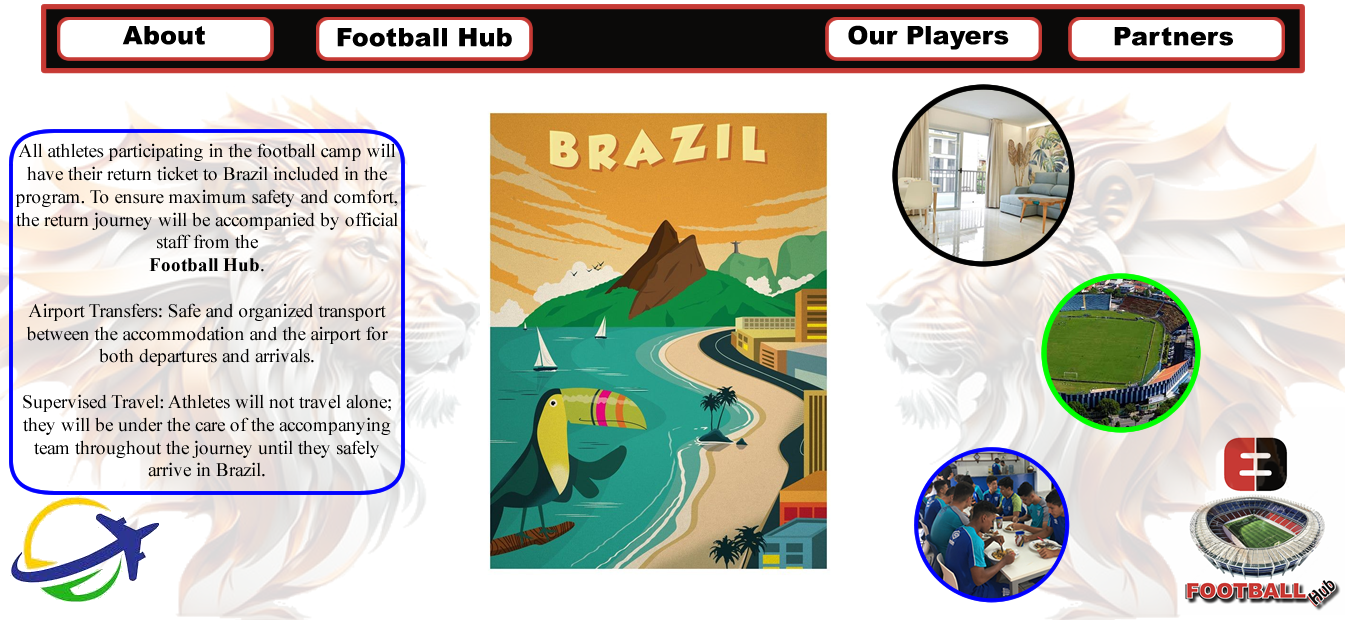
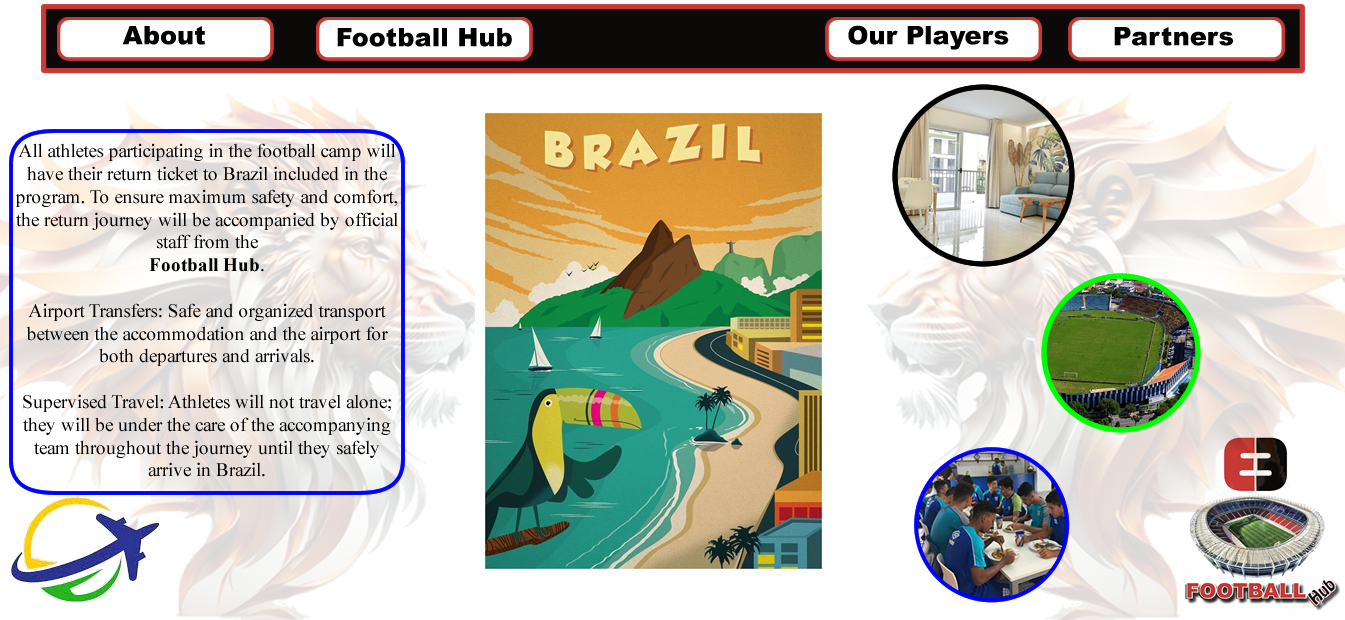
Add files via upload

Changed region(s): [[0.3435, 0.1839, 0.6245, 0.9194]]

diff --git a/brasilcamp.htm b/brasilcamp.htm
@@ -6,7 +6,7 @@
 <title>brasilcamp.jpg</title>
 <meta http-equiv="Content-Type" content="text/html; charset=utf-8" />
 <style type="text/css">td img {display: block;}</style>
-<!--Fireworks CS3 Dreamweaver CS3 target.  Created Tue Jun 10 14:33:51 GMT+0200 (Romance Daylight Time) 2025-->
+<!--Fireworks CS3 Dreamweaver CS3 target.  Created Tue Jun 10 14:48:42 GMT+0200 (Romance Daylight Time) 2025-->
 <script language="JavaScript1.2" type="text/javascript">
 <!--
 function MM_findObj(n, d) { //v4.01
@@ -33,7 +33,7 @@ function MM_preloadImages() { //v3.0
 //-->
 </script>
 </head>
-<body bgcolor="#ffffff" onload="MM_preloadImages('brasilcamp_r2_c9_f2.jpg','brasilcamp_r3_c3_f2.jpg','brasilcamp_r4_c13_f2.jpg','brasilcamp_r5_c5_f2.jpg','brasilcamp_r10_c7_f2.jpg','brasilcamp_r10_c11_f2.jpg','brasilcamp_r12_c14_f2.jpg','brasilcamp_r13_c15_f2.jpg','brasilcamp_r13_c10_f2.jpg','brasilcamp_r14_c2_f2.jpg');">
+<body bgcolor="#ffffff" onload="MM_preloadImages('brasilcamp_r2_c10_f2.jpg','brasilcamp_r3_c3_f2.jpg','brasilcamp_r4_c14_f2.jpg','brasilcamp_r5_c5_f2.jpg','brasilcamp_r10_c7_f2.jpg','brasilcamp_r10_c12_f2.jpg','brasilcamp_r12_c15_f2.jpg','brasilcamp_r13_c16_f2.jpg','brasilcamp_r13_c11_f2.jpg','brasilcamp_r14_c2_f2.jpg');">
 <table border="0" cellpadding="0" cellspacing="0" width="1345">
 <!-- fwtable fwsrc="brasilcamp.png" fwpage="Page 1" fwbase="brasilcamp.jpg" fwstyle="Dreamweaver" fwdocid = "1251620609" fwnested="0" -->
   <tr>
@@ -42,9 +42,10 @@ function MM_preloadImages() { //v3.0
    <td><img src="spacer.gif" width="83" height="1" border="0" alt="" /></td>
    <td><img src="spacer.gif" width="132" height="1" border="0" alt="" /></td>
    <td><img src="spacer.gif" width="112" height="1" border="0" alt="" /></td>
-   <td><img src="spacer.gif" width="16" height="1" border="0" alt="" /></td>
-   <td><img src="spacer.gif" width="47" height="1" border="0" alt="" /></td>
-   <td><img src="spacer.gif" width="336" height="1" border="0" alt="" /></td>
+   <td><img src="spacer.gif" width="11" height="1" border="0" alt="" /></td>
+   <td><img src="spacer.gif" width="52" height="1" border="0" alt="" /></td>
+   <td><img src="spacer.gif" width="331" height="1" border="0" alt="" /></td>
+   <td><img src="spacer.gif" width="5" height="1" border="0" alt="" /></td>
    <td><img src="spacer.gif" width="11" height="1" border="0" alt="" /></td>
    <td><img src="spacer.gif" width="34" height="1" border="0" alt="" /></td>
    <td><img src="spacer.gif" width="116" height="1" border="0" alt="" /></td>
@@ -58,31 +59,31 @@ function MM_preloadImages() { //v3.0
   </tr>
 
   <tr>
-   <td colspan="17"><img name="brasilcamp_r1_c1" src="brasilcamp_r1_c1.jpg" width="1345" height="25" border="0" id="brasilcamp_r1_c1" alt="" /></td>
+   <td colspan="18"><img name="brasilcamp_r1_c1" src="brasilcamp_r1_c1.jpg" width="1345" height="25" border="0" id="brasilcamp_r1_c1" alt="" /></td>
    <td><img src="spacer.gif" width="1" height="25" border="0" alt="" /></td>
   </tr>
   <tr>
-   <td colspan="8"><img name="brasilcamp_r2_c1" src="brasilcamp_r2_c1.jpg" width="848" height="1" border="0" id="brasilcamp_r2_c1" alt="" /></td>
-   <td rowspan="7" colspan="3"><a href="players.htm" onmouseout="MM_swapImgRestore();" onmouseover="MM_swapImage('brasilcamp_r2_c9','','brasilcamp_r2_c9_f2.jpg',1);"><img name="brasilcamp_r2_c9" src="brasilcamp_r2_c9.jpg" width="161" height="25" border="0" id="brasilcamp_r2_c9" alt="" /></a></td>
-   <td rowspan="2" colspan="6"><img name="brasilcamp_r2_c12" src="brasilcamp_r2_c12.jpg" width="336" height="2" border="0" id="brasilcamp_r2_c12" alt="" /></td>
+   <td colspan="9"><img name="brasilcamp_r2_c1" src="brasilcamp_r2_c1.jpg" width="848" height="1" border="0" id="brasilcamp_r2_c1" alt="" /></td>
+   <td rowspan="7" colspan="3"><a href="players.htm" onmouseout="MM_swapImgRestore();" onmouseover="MM_swapImage('brasilcamp_r2_c10','','brasilcamp_r2_c10_f2.jpg',1);"><img name="brasilcamp_r2_c10" src="brasilcamp_r2_c10.jpg" width="161" height="25" border="0" id="brasilcamp_r2_c10" alt="" /></a></td>
+   <td rowspan="2" colspan="6"><img name="brasilcamp_r2_c13" src="brasilcamp_r2_c13.jpg" width="336" height="2" border="0" id="brasilcamp_r2_c13" alt="" /></td>
    <td><img src="spacer.gif" width="1" height="1" border="0" alt="" /></td>
   </tr>
   <tr>
    <td rowspan="11" colspan="2"><img name="brasilcamp_r3_c1" src="brasilcamp_r3_c1.jpg" width="122" height="469" border="0" id="brasilcamp_r3_c1" alt="" /></td>
    <td rowspan="3"><a href="About.htm" target="_top" onmouseout="MM_swapImgRestore();" onmouseover="MM_swapImage('brasilcamp_r3_c3','','brasilcamp_r3_c3_f2.jpg',1);"><img name="brasilcamp_r3_c3" src="brasilcamp_r3_c3.jpg" width="83" height="19" border="0" id="brasilcamp_r3_c3" alt="" /></a></td>
-   <td rowspan="2" colspan="5"><img name="brasilcamp_r3_c4" src="brasilcamp_r3_c4.jpg" width="643" height="2" border="0" id="brasilcamp_r3_c4" alt="" /></td>
+   <td rowspan="2" colspan="6"><img name="brasilcamp_r3_c4" src="brasilcamp_r3_c4.jpg" width="643" height="2" border="0" id="brasilcamp_r3_c4" alt="" /></td>
    <td><img src="spacer.gif" width="1" height="1" border="0" alt="" /></td>
   </tr>
   <tr>
-   <td rowspan="6"><img name="brasilcamp_r4_c12" src="brasilcamp_r4_c12.jpg" width="105" height="56" border="0" id="brasilcamp_r4_c12" alt="" /></td>
-   <td rowspan="3" colspan="3"><a href="partners.htm" onmouseout="MM_swapImgRestore();" onmouseover="MM_swapImage('brasilcamp_r4_c13','','brasilcamp_r4_c13_f2.jpg',1);"><img name="brasilcamp_r4_c13" src="brasilcamp_r4_c13.jpg" width="188" height="19" border="0" id="brasilcamp_r4_c13" alt="" /></a></td>
-   <td rowspan="6" colspan="2"><img name="brasilcamp_r4_c16" src="brasilcamp_r4_c16.jpg" width="43" height="56" border="0" id="brasilcamp_r4_c16" alt="" /></td>
+   <td rowspan="6"><img name="brasilcamp_r4_c13" src="brasilcamp_r4_c13.jpg" width="105" height="56" border="0" id="brasilcamp_r4_c13" alt="" /></td>
+   <td rowspan="3" colspan="3"><a href="partners.htm" onmouseout="MM_swapImgRestore();" onmouseover="MM_swapImage('brasilcamp_r4_c14','','brasilcamp_r4_c14_f2.jpg',1);"><img name="brasilcamp_r4_c14" src="brasilcamp_r4_c14.jpg" width="188" height="19" border="0" id="brasilcamp_r4_c14" alt="" /></a></td>
+   <td rowspan="6" colspan="2"><img name="brasilcamp_r4_c17" src="brasilcamp_r4_c17.jpg" width="43" height="56" border="0" id="brasilcamp_r4_c17" alt="" /></td>
    <td><img src="spacer.gif" width="1" height="1" border="0" alt="" /></td>
   </tr>
   <tr>
    <td rowspan="9"><img name="brasilcamp_r5_c4" src="brasilcamp_r5_c4.jpg" width="132" height="467" border="0" id="brasilcamp_r5_c4" alt="" /></td>
    <td rowspan="3" colspan="3"><a href="footballhub.htm" onmouseout="MM_swapImgRestore();" onmouseover="MM_swapImage('brasilcamp_r5_c5','','brasilcamp_r5_c5_f2.jpg',1);"><img name="brasilcamp_r5_c5" src="brasilcamp_r5_c5.jpg" width="175" height="19" border="0" id="brasilcamp_r5_c5" alt="" /></a></td>
-   <td rowspan="5"><img name="brasilcamp_r5_c8" src="brasilcamp_r5_c8.jpg" width="336" height="55" border="0" id="brasilcamp_r5_c8" alt="" /></td>
+   <td rowspan="5" colspan="2"><img name="brasilcamp_r5_c8" src="brasilcamp_r5_c8.jpg" width="336" height="55" border="0" id="brasilcamp_r5_c8" alt="" /></td>
    <td><img src="spacer.gif" width="1" height="17" border="0" alt="" /></td>
   </tr>
   <tr>
@@ -90,7 +91,7 @@ function MM_preloadImages() { //v3.0
    <td><img src="spacer.gif" width="1" height="1" border="0" alt="" /></td>
   </tr>
   <tr>
-   <td rowspan="3" colspan="3"><img name="brasilcamp_r7_c13" src="brasilcamp_r7_c13.jpg" width="188" height="37" border="0" id="brasilcamp_r7_c13" alt="" /></td>
+   <td rowspan="3" colspan="3"><img name="brasilcamp_r7_c14" src="brasilcamp_r7_c14.jpg" width="188" height="37" border="0" id="brasilcamp_r7_c14" alt="" /></td>
    <td><img src="spacer.gif" width="1" height="1" border="0" alt="" /></td>
   </tr>
   <tr>
@@ -98,36 +99,36 @@ function MM_preloadImages() { //v3.0
    <td><img src="spacer.gif" width="1" height="3" border="0" alt="" /></td>
   </tr>
   <tr>
-   <td colspan="3"><img name="brasilcamp_r9_c9" src="brasilcamp_r9_c9.jpg" width="161" height="33" border="0" id="brasilcamp_r9_c9" alt="" /></td>
+   <td colspan="3"><img name="brasilcamp_r9_c10" src="brasilcamp_r9_c10.jpg" width="161" height="33" border="0" id="brasilcamp_r9_c10" alt="" /></td>
    <td><img src="spacer.gif" width="1" height="33" border="0" alt="" /></td>
   </tr>
   <tr>
-   <td rowspan="4" colspan="2"><img name="brasilcamp_r10_c5" src="brasilcamp_r10_c5.jpg" width="128" height="412" border="0" id="brasilcamp_r10_c5" alt="" /></td>
+   <td rowspan="4" colspan="2"><img name="brasilcamp_r10_c5" src="brasilcamp_r10_c5.jpg" width="123" height="412" border="0" id="brasilcamp_r10_c5" alt="" /></td>
    <td rowspan="6" colspan="2"><a href="javascript:;" onmouseout="MM_swapImgRestore();" onmouseover="MM_swapImage('brasilcamp_r10_c7','','brasilcamp_r10_c7_f2.jpg',1);"><img name="brasilcamp_r10_c7" src="brasilcamp_r10_c7.jpg" width="383" height="521" border="0" id="brasilcamp_r10_c7" alt="" /></a></td>
-   <td rowspan="3" colspan="2"><img name="brasilcamp_r10_c9" src="brasilcamp_r10_c9.jpg" width="45" height="362" border="0" id="brasilcamp_r10_c9" alt="" /></td>
-   <td colspan="6"><a href="javascript:;" onmouseout="MM_swapImgRestore();" onmouseover="MM_swapImage('brasilcamp_r10_c11','','brasilcamp_r10_c11_f2.jpg',1);"><img name="brasilcamp_r10_c11" src="brasilcamp_r10_c11.jpg" width="442" height="186" border="0" id="brasilcamp_r10_c11" alt="" /></a></td>
-   <td rowspan="2"><img name="brasilcamp_r10_c17" src="brasilcamp_r10_c17.jpg" width="10" height="350" border="0" id="brasilcamp_r10_c17" alt="" /></td>
+   <td rowspan="3" colspan="3"><img name="brasilcamp_r10_c9" src="brasilcamp_r10_c9.jpg" width="50" height="362" border="0" id="brasilcamp_r10_c9" alt="" /></td>
+   <td colspan="6"><a href="javascript:;" onmouseout="MM_swapImgRestore();" onmouseover="MM_swapImage('brasilcamp_r10_c12','','brasilcamp_r10_c12_f2.jpg',1);"><img name="brasilcamp_r10_c12" src="brasilcamp_r10_c12.jpg" width="442" height="186" border="0" id="brasilcamp_r10_c12" alt="" /></a></td>
+   <td rowspan="2"><img name="brasilcamp_r10_c18" src="brasilcamp_r10_c18.jpg" width="10" height="350" border="0" id="brasilcamp_r10_c18" alt="" /></td>
    <td><img src="spacer.gif" width="1" height="186" border="0" alt="" /></td>
   </tr>
   <tr>
-   <td colspan="6"><img name="brasilcamp_r11_c11" src="brasilcamp_r11_c11.jpg" width="442" height="164" border="0" id="brasilcamp_r11_c11" alt="" /></td>
+   <td colspan="6"><img name="brasilcamp_r11_c12" src="brasilcamp_r11_c12.jpg" width="442" height="164" border="0" id="brasilcamp_r11_c12" alt="" /></td>
    <td><img src="spacer.gif" width="1" height="164" border="0" alt="" /></td>
   </tr>
   <tr>
-   <td colspan="3"><img name="brasilcamp_r12_c11" src="brasilcamp_r12_c11.jpg" width="288" height="12" border="0" id="brasilcamp_r12_c11" alt="" /></td>
-   <td colspan="4"><a href="index.htm" onmouseout="MM_swapImgRestore();" onmouseover="MM_swapImage('brasilcamp_r12_c14','','brasilcamp_r12_c14_f2.jpg','brasilcamp_r13_c15','','brasilcamp_r13_c15_f2.jpg',1);"><img name="brasilcamp_r12_c14" src="brasilcamp_r12_c14.jpg" width="164" height="12" border="0" id="brasilcamp_r12_c14" alt="" /></a></td>
+   <td colspan="3"><img name="brasilcamp_r12_c12" src="brasilcamp_r12_c12.jpg" width="288" height="12" border="0" id="brasilcamp_r12_c12" alt="" /></td>
+   <td colspan="4"><a href="index.htm" onmouseout="MM_swapImgRestore();" onmouseover="MM_swapImage('brasilcamp_r12_c15','','brasilcamp_r12_c15_f2.jpg','brasilcamp_r13_c16','','brasilcamp_r13_c16_f2.jpg',1);"><img name="brasilcamp_r12_c15" src="brasilcamp_r12_c15.jpg" width="164" height="12" border="0" id="brasilcamp_r12_c15" alt="" /></a></td>
    <td><img src="spacer.gif" width="1" height="12" border="0" alt="" /></td>
   </tr>
   <tr>
-   <td rowspan="5"><img name="brasilcamp_r13_c9" src="brasilcamp_r13_c9.jpg" width="11" height="175" border="0" id="brasilcamp_r13_c9" alt="" /></td>
-   <td rowspan="4" colspan="5"><a href="javascript:;" onmouseout="MM_swapImgRestore();" onmouseover="MM_swapImage('brasilcamp_r13_c10','','brasilcamp_r13_c10_f2.jpg',1);"><img name="brasilcamp_r13_c10" src="brasilcamp_r13_c10.jpg" width="326" height="170" border="0" id="brasilcamp_r13_c10" alt="" /></a></td>
-   <td rowspan="4" colspan="3"><a href="index.htm" onmouseout="MM_swapImgRestore();" onmouseover="MM_swapImage('brasilcamp_r12_c14','','brasilcamp_r12_c14_f2.jpg','brasilcamp_r13_c15','','brasilcamp_r13_c15_f2.jpg',1);"><img name="brasilcamp_r13_c15" src="brasilcamp_r13_c15.jpg" width="160" height="170" border="0" id="brasilcamp_r13_c15" alt="" /></a></td>
+   <td rowspan="5" colspan="2"><img name="brasilcamp_r13_c9" src="brasilcamp_r13_c9.jpg" width="16" height="175" border="0" id="brasilcamp_r13_c9" alt="" /></td>
+   <td rowspan="4" colspan="5"><a href="javascript:;" onmouseout="MM_swapImgRestore();" onmouseover="MM_swapImage('brasilcamp_r13_c11','','brasilcamp_r13_c11_f2.jpg',1);"><img name="brasilcamp_r13_c11" src="brasilcamp_r13_c11.jpg" width="326" height="170" border="0" id="brasilcamp_r13_c11" alt="" /></a></td>
+   <td rowspan="4" colspan="3"><a href="index.htm" onmouseout="MM_swapImgRestore();" onmouseover="MM_swapImage('brasilcamp_r12_c15','','brasilcamp_r12_c15_f2.jpg','brasilcamp_r13_c16','','brasilcamp_r13_c16_f2.jpg',1);"><img name="brasilcamp_r13_c16" src="brasilcamp_r13_c16.jpg" width="160" height="170" border="0" id="brasilcamp_r13_c16" alt="" /></a></td>
    <td><img src="spacer.gif" width="1" height="50" border="0" alt="" /></td>
   </tr>
   <tr>
    <td rowspan="4"><img name="brasilcamp_r14_c1" src="brasilcamp_r14_c1.jpg" width="10" height="125" border="0" id="brasilcamp_r14_c1" alt="" /></td>
    <td colspan="4"><a href="javascript:;" onmouseout="MM_swapImgRestore();" onmouseover="MM_swapImage('brasilcamp_r14_c2','','brasilcamp_r14_c2_f2.jpg',1);"><img name="brasilcamp_r14_c2" src="brasilcamp_r14_c2.jpg" width="439" height="107" border="0" id="brasilcamp_r14_c2" alt="" /></a></td>
-   <td rowspan="4"><img name="brasilcamp_r14_c6" src="brasilcamp_r14_c6.jpg" width="16" height="125" border="0" id="brasilcamp_r14_c6" alt="" /></td>
+   <td rowspan="4"><img name="brasilcamp_r14_c6" src="brasilcamp_r14_c6.jpg" width="11" height="125" border="0" id="brasilcamp_r14_c6" alt="" /></td>
    <td><img src="spacer.gif" width="1" height="107" border="0" alt="" /></td>
   </tr>
   <tr>
@@ -139,7 +140,7 @@ function MM_preloadImages() { //v3.0
    <td><img src="spacer.gif" width="1" height="11" border="0" alt="" /></td>
   </tr>
   <tr>
-   <td colspan="8"><img name="brasilcamp_r17_c10" src="brasilcamp_r17_c10.jpg" width="486" height="5" border="0" id="brasilcamp_r17_c10" alt="" /></td>
+   <td colspan="8"><img name="brasilcamp_r17_c11" src="brasilcamp_r17_c11.jpg" width="486" height="5" border="0" id="brasilcamp_r17_c11" alt="" /></td>
    <td><img src="spacer.gif" width="1" height="5" border="0" alt="" /></td>
   </tr>
 </table>
